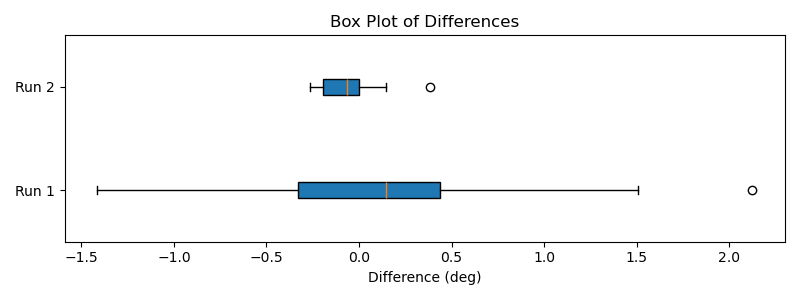
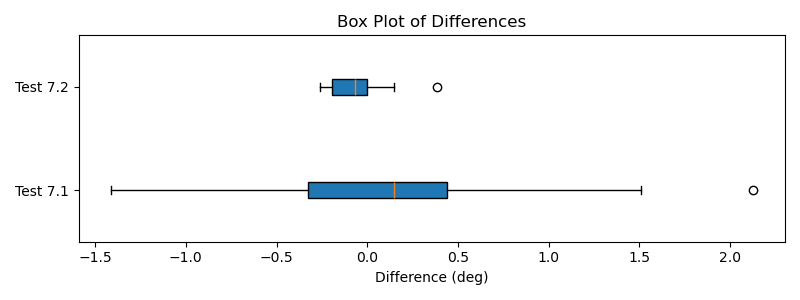
Made some documents to help mith analysing test data

diff --git a/precisionPlot.py b/precisionPlot.py
@@ -1,56 +1,130 @@
 import matplotlib.pyplot as plt
 import numpy as np
+import scipy.stats as stats
 
 # Define the data for the experiment
 def get_data():
-    # Fixed data for two runs
-    target_degrees = [45, 90, 120, 90, 120, 45, 120, 90, 45]  # Ordered target degrees
-    correct_steps = [614, 1372, 1867]  # Correct steps corresponding to degrees
+    # target_deg = [45, 90, 120, 90, 120, 45, 120, 90, 45] 
+    # Test 7.1 and 7.2
+    # correct_steps = [614, 1372, 1867] 
+    steps_test1 = [643, 1395, 1872, 1360, 1865, 616, 1845, 1367, 620]
+    steps_test2 = [614, 1371, 1864, 1372, 1864, 613, 1873, 1368, 616]
+    target_steps1 = [614, 1372, 1867, 1372, 1867, 614, 1867, 1372, 614]
+    
+    # Test 7.3
+    # correct_steps = [412, 831, 1322]
+    steps_test3 = [435, 1100, 1540, 1045, 1600, 430, 1608, 1048, 415]
+    target_steps3 = [412, 831, 1322, 831, 1322, 412, 1322, 831, 412]
 
-    # Data for two runs
-    actual_steps_data_run1 = [643, 1395, 1872, 1360, 1865, 616, 1845, 1367, 620]
-    actual_steps_data_run2 = [614, 1371, 1864, 1372, 1864, 613, 1873, 1368, 616]
+    return target_steps1, target_steps3, steps_test1, steps_test2, steps_test3
 
-    return correct_steps, target_degrees, actual_steps_data_run1, actual_steps_data_run2
+def steps_to_degrees(steps):
+    degrees_per_step = 0.062
+    steps = np.array(steps)
+    return steps * degrees_per_step
 
 # Perform calculations and create plots
-def analyze_and_plot(target_degrees, correct_steps, actual_steps_data_run1, actual_steps_data_run2):
-    differences_run1 = []
-    differences_run2 = []
-
-    # Create a lookup table for degrees per step
-    deg_per_step_lookup = {deg: deg / step for deg, step in zip([45, 90, 120], correct_steps)}
-
-    # Calculate differences for Run 1
-    for target_deg, actual_step in zip(target_degrees, actual_steps_data_run1):
-        deg_per_step = deg_per_step_lookup[target_deg]  # Correct degrees per step
-        actual_deg = deg_per_step * actual_step  # Actual degree
-        diff = actual_deg - target_deg  # Difference from target
-        differences_run1.append(diff)
-
-    # Calculate differences for Run 2
-    for target_deg, actual_step in zip(target_degrees, actual_steps_data_run2):
-        deg_per_step = deg_per_step_lookup[target_deg]  # Correct degrees per step
-        actual_deg = deg_per_step * actual_step  # Actual degree
-        diff = actual_deg - target_deg  # Difference from target
-        differences_run2.append(diff)
+def analyze_and_plot(target_steps1, target_steps3, steps_test1, steps_test2, steps_test3):
+    # Calculate differences for Test 7.1
+    differences_test1 = steps_to_degrees(steps_test1) - steps_to_degrees(target_steps1)
+    # Calculate differences for Test 7.2
+    differences_test2 = steps_to_degrees(steps_test2) - steps_to_degrees(target_steps1)
+    # Calculate differences for Test 7.3
+    differences_test3 = steps_to_degrees(steps_test3) - steps_to_degrees(target_steps3)
+    
 
     # Plotting
     plt.figure(figsize=(8, 3))
 
     # Box Plot
-    plt.boxplot([differences_run1, differences_run2], vert=False, patch_artist=True, labels=["Run 1", "Run 2"])
-    plt.title('Box Plot of Differences')
+    plt.boxplot([differences_test1, differences_test2], vert=False, patch_artist=True, labels=["Test 7.1", "Test 7.2"])
     plt.xlabel('Difference (deg)')
 
     plt.tight_layout()
-    plt.savefig('boxPlot.png')
-    plt.show()
+    plt.savefig('boxPlotTest_7.1-2.png')
+
+    # Plotting
+    plt.figure(figsize=(8, 2))
+
+    # Box Plot
+    plt.boxplot([differences_test3], vert=False, patch_artist=True, labels=["Test 7.3"])
+    plt.xlabel('Difference (deg)')
+
+    plt.tight_layout()
+    plt.savefig('boxPlotTest_7.3.png')
+
+    return differences_test1, differences_test2, differences_test3
+
+def print_metrics(abs_diff):
+    max_diff = np.max(abs_diff)
+    mean_diff = np.mean(abs_diff)
+
+    print(f"Max Difference: {max_diff}")
+    print(f"Mean Difference: {mean_diff}")
+
+    # Calculate IQR
+    q1 = np.percentile(abs_diff, 25)  # 25th percentile
+    q3 = np.percentile(abs_diff, 75)  # 75th percentile
+    iqr = q3 - q1
+
+    print(f"IQR: {iqr}")
+
+    # Calculate Confidence Interval using t-distribution
+    # standard deviation
+    std_dev = np.std(abs_diff, ddof=1)  # Sample standard deviation
+    n = len(abs_diff)  # Sample size
+
+    # Confidence level (95%)
+    confidence_level = 0.95
+    alpha = 1 - confidence_level
+    t_critical = stats.t.ppf(1 - alpha / 2, df=n-1)  # t-critical value
+
+    # Margin of Error
+    margin_of_error = t_critical * (std_dev / np.sqrt(n))
+
+    # Confidence Interval
+    ci_lower = mean_diff - margin_of_error
+    ci_upper = mean_diff + margin_of_error
+
+    print(f"Confidence Interval (95%): [{ci_lower}, {ci_upper}]")
+    print(f"Margin of Error: {margin_of_error}")
 
 # Main execution
 def main():
-    correct_steps, target_degrees, actual_steps_data_run1, actual_steps_data_run2 = get_data()
-    analyze_and_plot(target_degrees, correct_steps, actual_steps_data_run1, actual_steps_data_run2)
+    target_steps1, target_steps3, steps_test1, steps_test2, steps_test3 = get_data()
+    differences_test1, differences_test2, differences_test3 = analyze_and_plot(target_steps1, target_steps3, steps_test1, steps_test2, steps_test3)
+
+    # Absolute Differences
+    abs_diff_test1 = np.abs(differences_test1)
+    abs_diff_test2 = np.abs(differences_test2)
+    abs_diff_test3 = np.abs(differences_test3)
+
+    # Print Metrics
+    print("Test 7.1 and 7.2:")
+    print_metrics(np.concatenate((abs_diff_test1, abs_diff_test2)))
+    print("Test 7.3:")
+    print_metrics(abs_diff_test3)
+
+    print("Values for the tests")
+    print("Target for test 7.1 and 7.2")
+    print(np.round(steps_to_degrees(target_steps1), 2))
+    print("Test 7.1")
+    print(np.round(steps_to_degrees(steps_test1), 2))
+    print("Test 7.1 Error")
+    print(np.round(differences_test1 ,2))
+    print("Test 7.2")
+    print(np.round(steps_to_degrees(steps_test2), 2))
+    print("Test 7.2 Error")
+    print(np.round(differences_test2 ,2))
+    print("Target for test 7.3")
+    print(np.round(steps_to_degrees(target_steps3), 2))
+    print("Test 7.3")
+    print(np.round(steps_to_degrees(steps_test3), 2))
+    print("Test 7.3 Error")
+    print(np.round(differences_test3 ,2))
+    
+
+
 
 if __name__ == "__main__":
     main()
